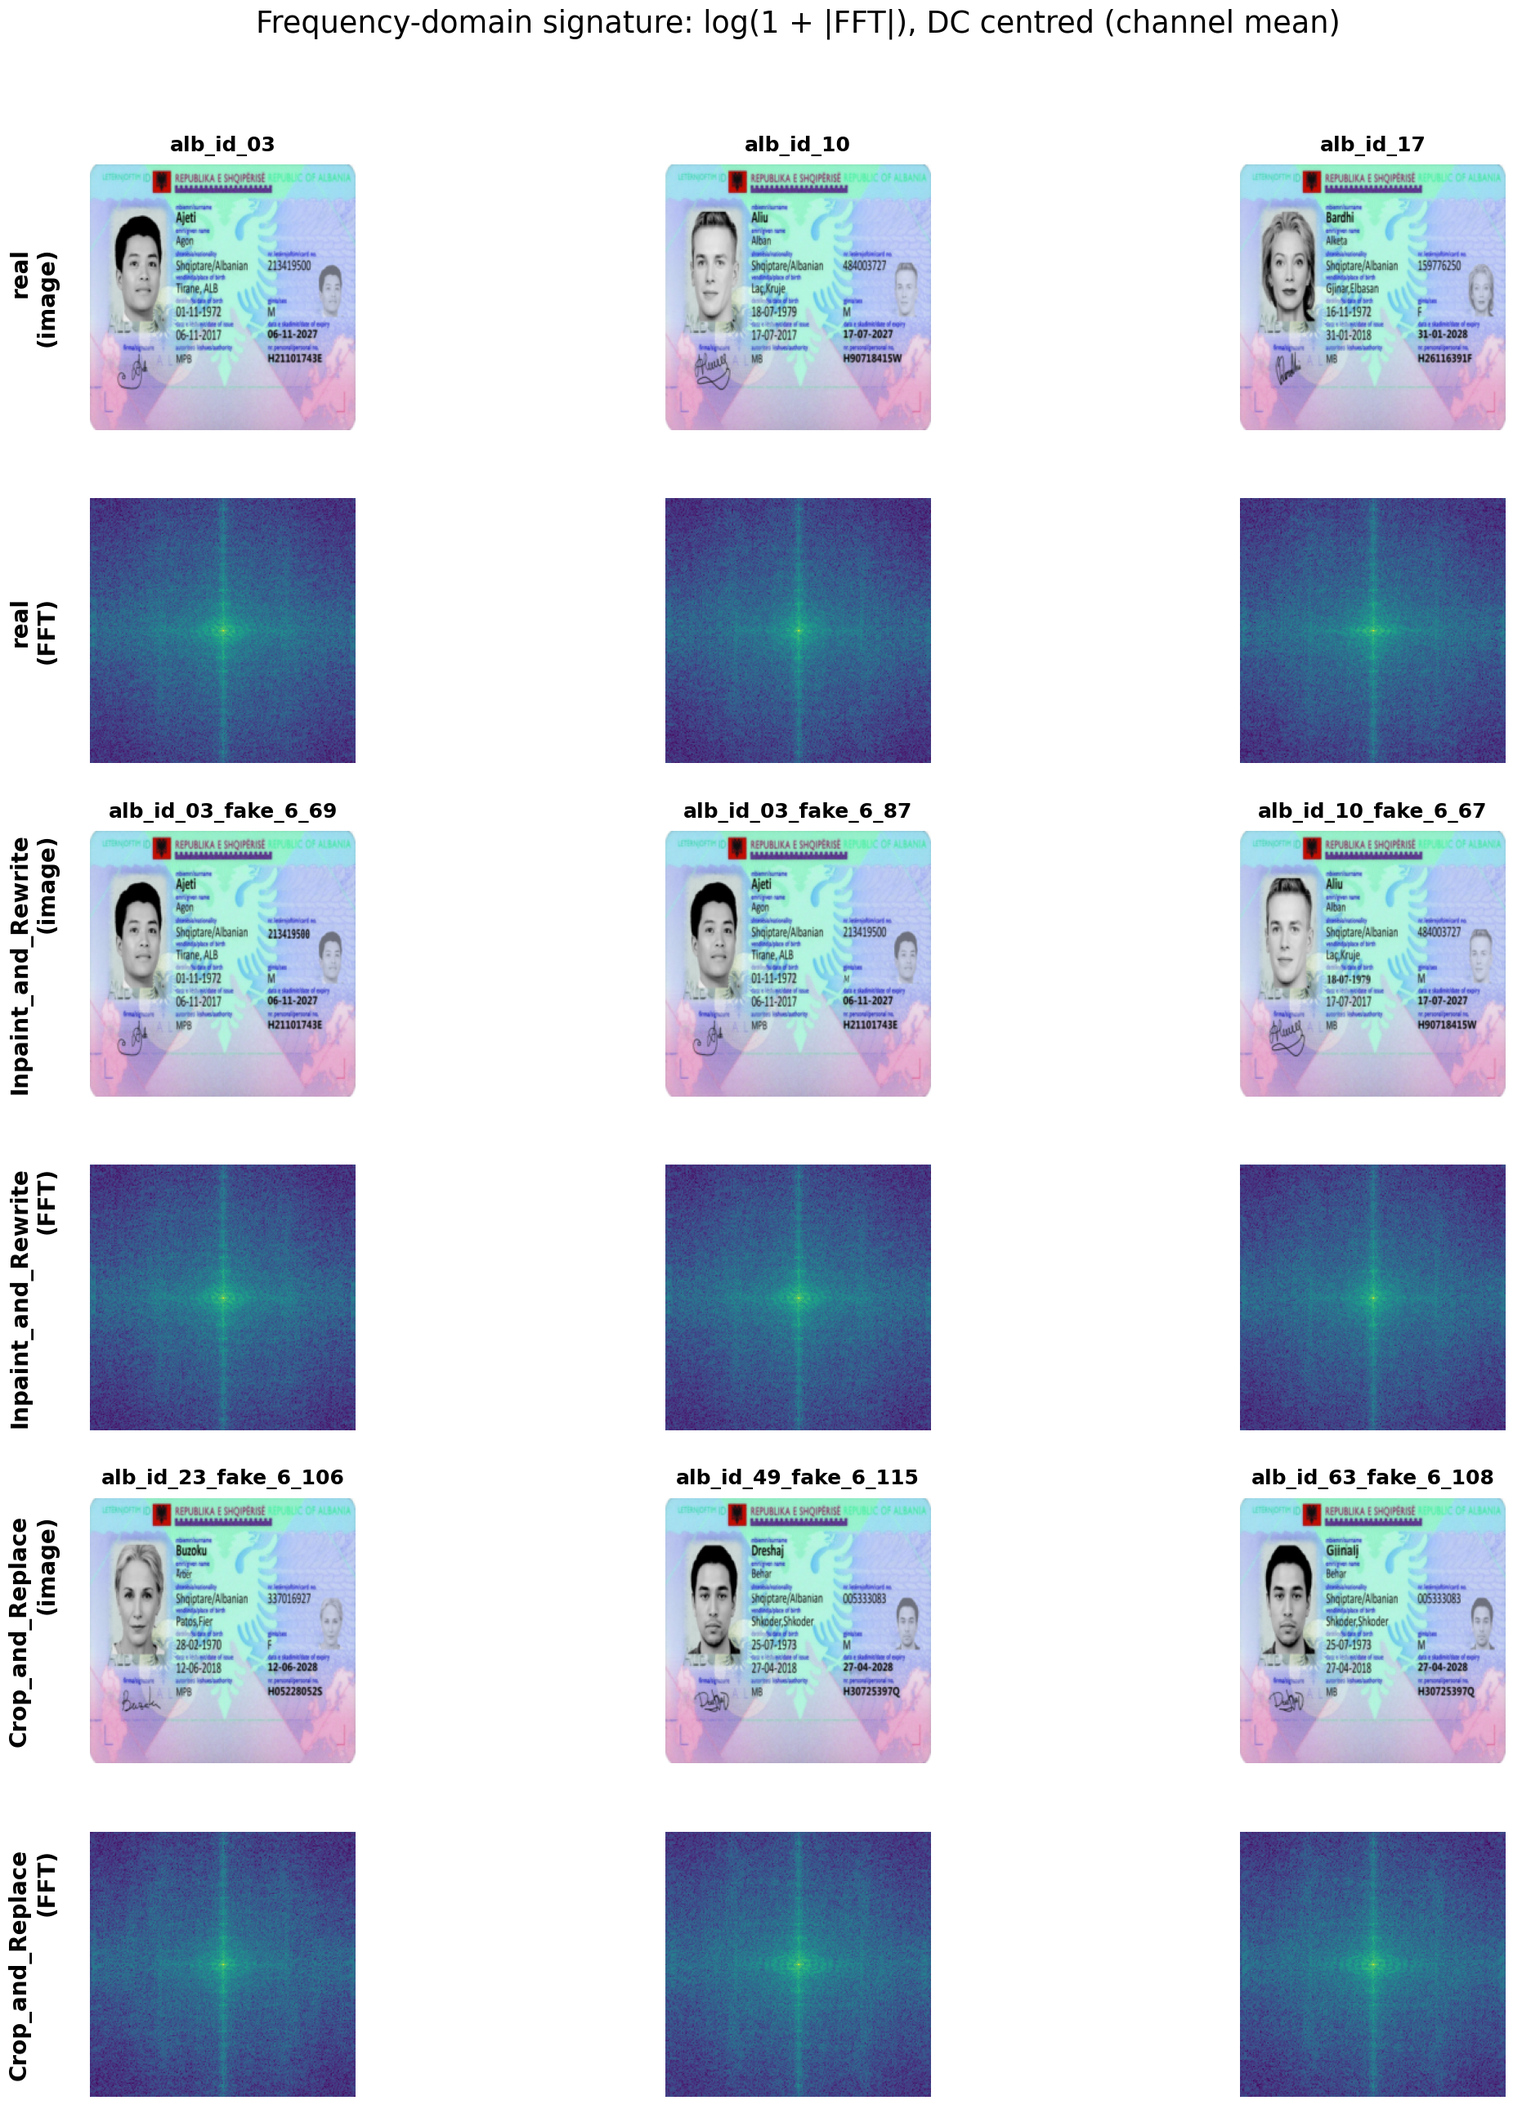
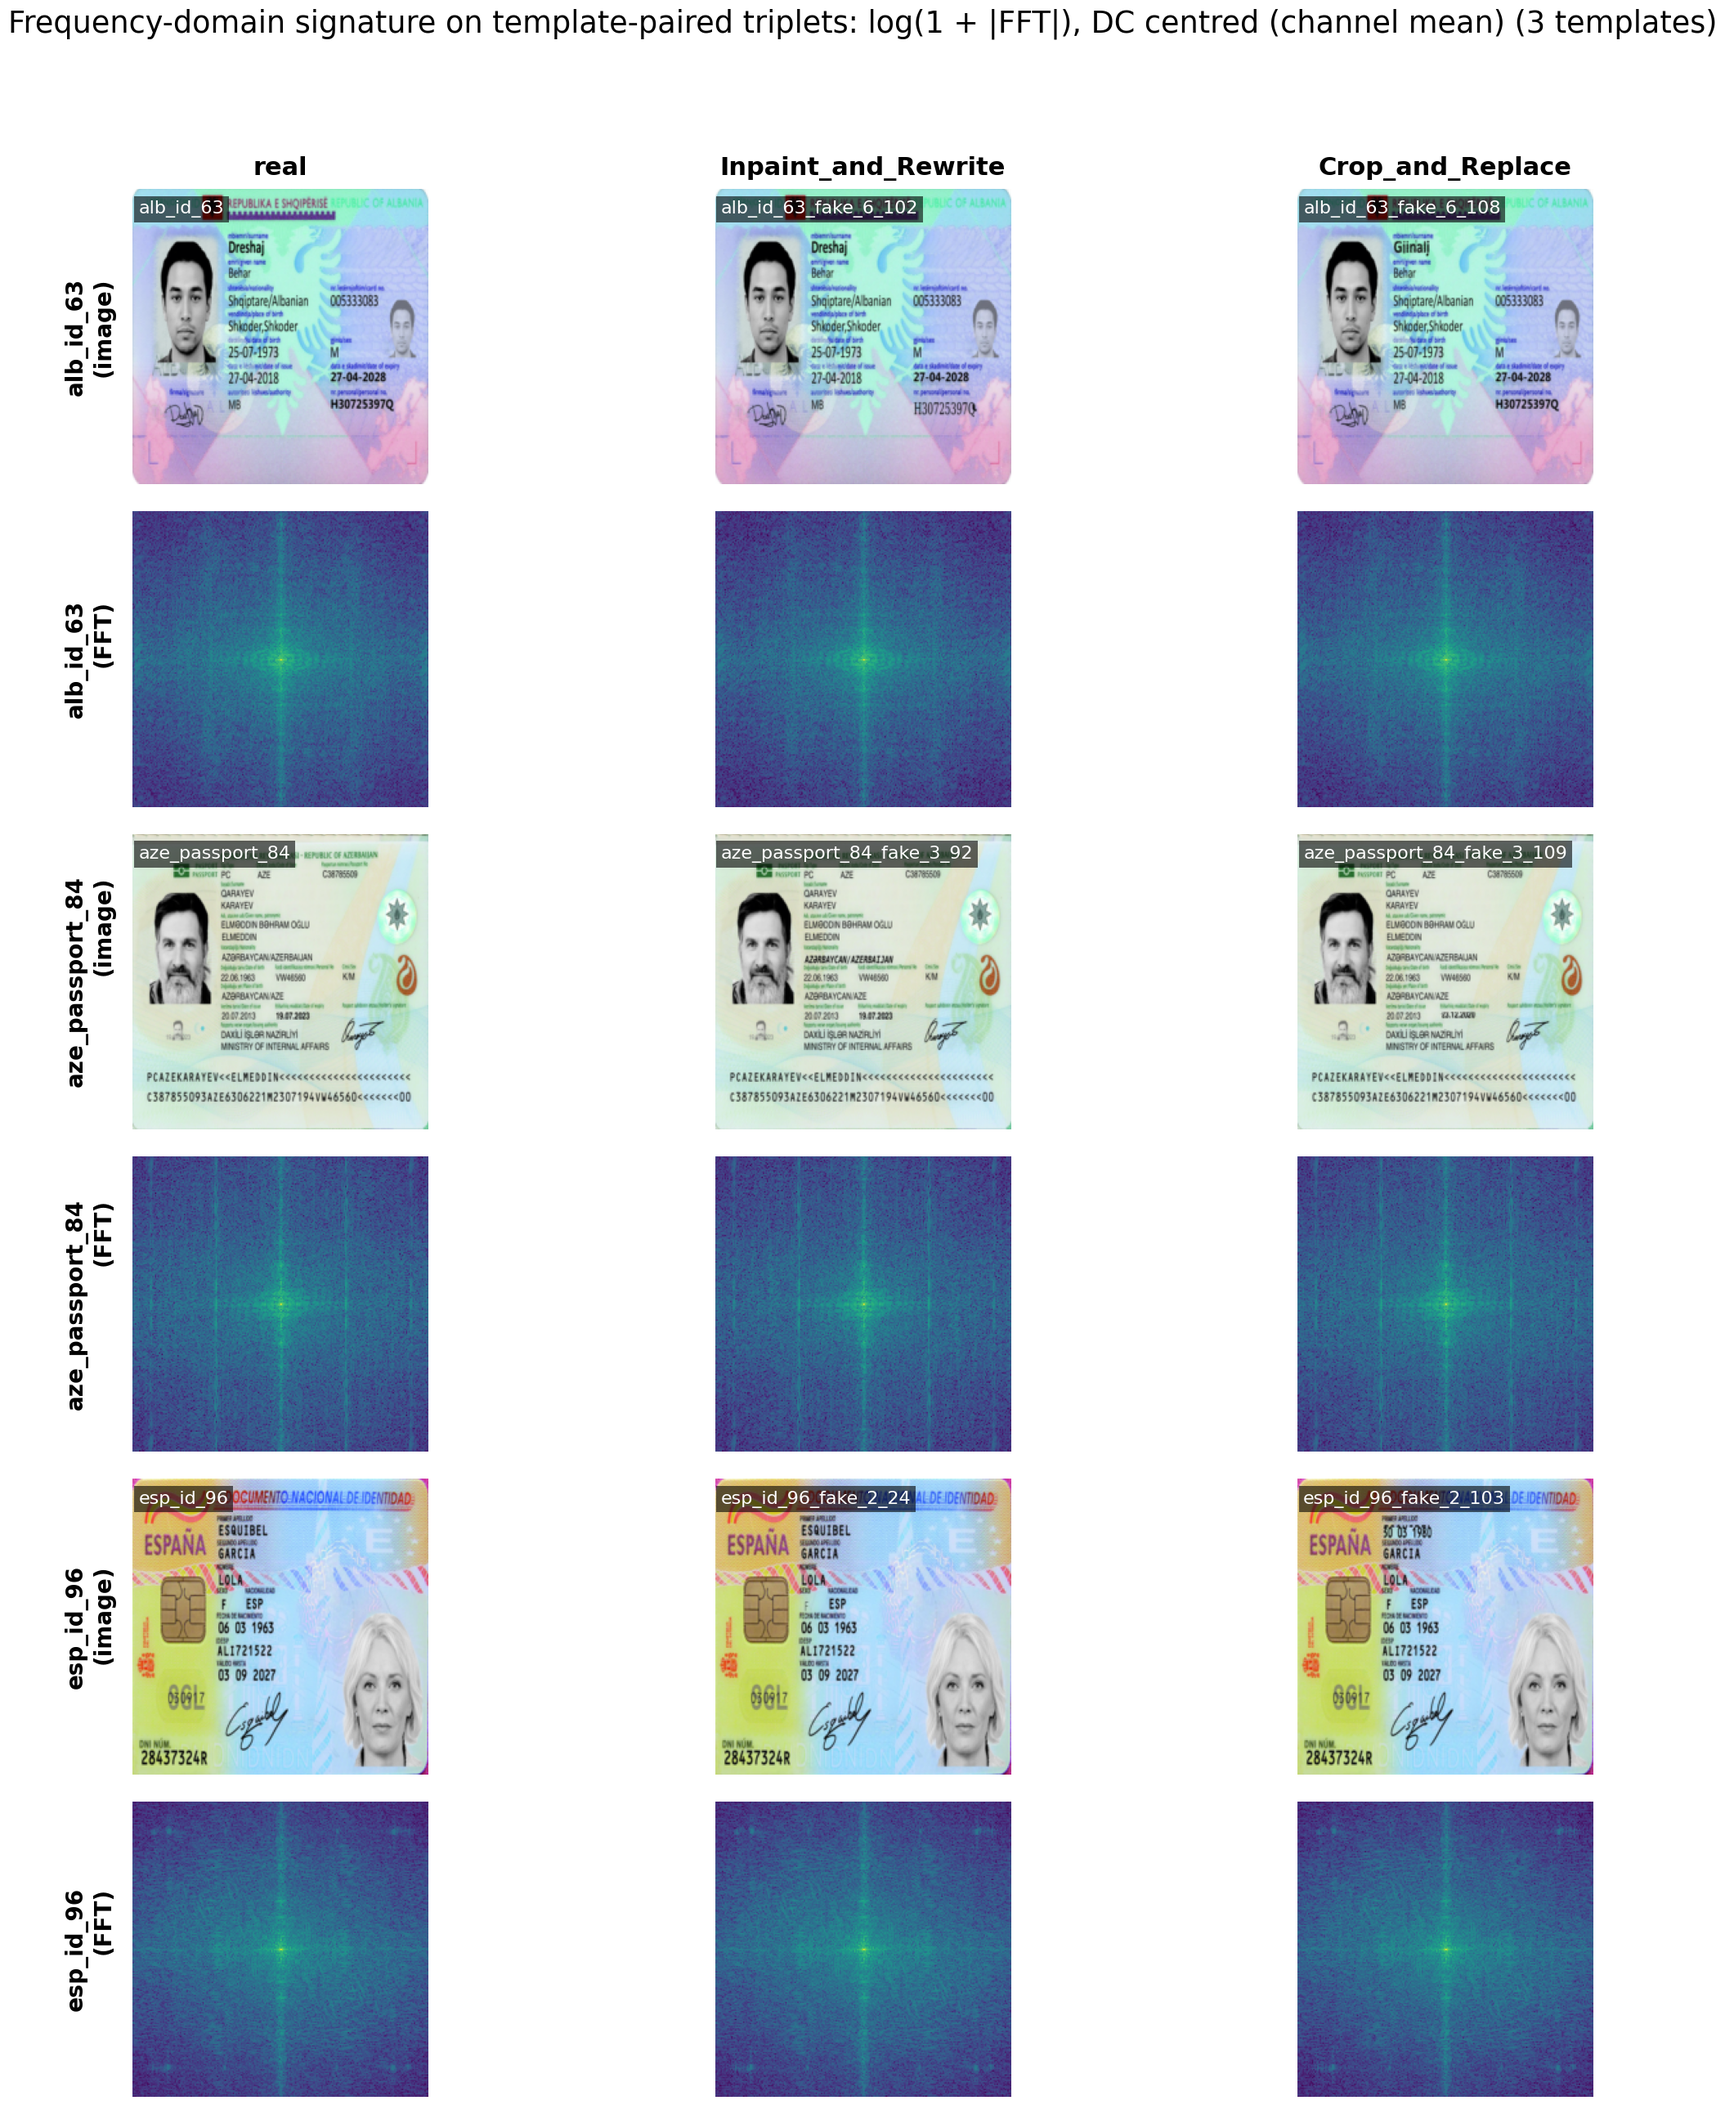
Stage-10 audit fixes: template-paired FFT, McNemar 2x2 box on Grad-CAM A/B, dual best-epoch markers

diff --git a/research/10_missing_figures.py b/research/10_missing_figures.py
@@ -484,10 +484,12 @@ def figure_training_curves():
     # (b) val ROC-AUC (zoomed to show convergence shape)
     ax = axes[1]
     _plot_pair(ax, "val_roc_auc", smooth_w=3)
-    ax.axvspan(best_ts, n_epochs + 0.5, color="0.85", alpha=0.35,
+    ax.axvspan(min(best_ts, best_rn), n_epochs + 0.5, color="0.85", alpha=0.30,
                zorder=1, label="converged region")
-    ax.axvline(best_ts, linestyle="--", color="black", linewidth=1.2,
-               label=f"best epoch = {best_ts}", zorder=4)
+    ax.axvline(best_rn, linestyle=":",  color=COLOR_RESNET,    linewidth=1.6,
+               label=f"ResNet50 best = {best_rn}", zorder=4)
+    ax.axvline(best_ts, linestyle="--", color=COLOR_TWOSTREAM, linewidth=1.6,
+               label=f"Two-Stream best = {best_ts}", zorder=4)
     ax.set_xlabel("Epoch"); ax.set_ylabel("Validation ROC-AUC")
     ax.set_title("(b) Validation ROC-AUC")
     ax.legend(loc="lower right")
@@ -497,8 +499,10 @@ def figure_training_curves():
     # (c) val recall
     ax = axes[2]
     _plot_pair(ax, "val_recall", smooth_w=3)
-    ax.axvspan(best_ts, n_epochs + 0.5, color="0.85", alpha=0.35, zorder=1)
-    ax.axvline(best_ts, linestyle="--", color="black", linewidth=1.2, zorder=4)
+    ax.axvspan(min(best_ts, best_rn), n_epochs + 0.5, color="0.85",
+               alpha=0.30, zorder=1)
+    ax.axvline(best_rn, linestyle=":",  color=COLOR_RESNET,    linewidth=1.6, zorder=4)
+    ax.axvline(best_ts, linestyle="--", color=COLOR_TWOSTREAM, linewidth=1.6, zorder=4)
     ax.set_xlabel("Epoch"); ax.set_ylabel("Validation recall on fakes")
     ax.set_title("(c) Validation recall on fakes")
     ax.legend(loc="lower right")
@@ -584,62 +588,89 @@ def _load_image_tensor(path: Path, image_size: int, device: torch.device) -> tor
 
 
 def figure_fft_spectrum(records: list[dict], test_idx: list[int],
-                        device: torch.device, image_size: int):
-    # Pick 3 reals, 3 inpaint, 3 crop_and_replace
-    grouped: dict[str, list[int]] = {"real": [], "Inpaint_and_Rewrite": [], "Crop_and_Replace": []}
-    for i in test_idx:
-        ct = records[i].get("ctype") or "real"
-        if ct in grouped and len(grouped[ct]) < 3:
-            grouped[ct].append(i)
+                        device: torch.device, image_size: int,
+                        n_templates: int = 3):
+    """Template-paired FFT spectra: same template shown across {real,
+    inpaint, crop_and_replace} so spectral differences are attributable
+    to the manipulation, not to inter-template variation."""
 
-    cols = max(len(v) for v in grouped.values())
-    fig, axes = plt.subplots(6, cols, figsize=(DBL_W, DBL_W * 1.10))
+    def _template_of(p) -> str:
+        s = p.stem
+        return s.split("_fake_")[0] if "_fake_" in s else s
+
+    # Group test indices by template id, then keep only templates that
+    # have at least one sample of each ctype in the test split.
+    by_tpl: dict[str, dict[str, int]] = {}
+    for i in test_idx:
+        rec = records[i]
+        ct  = rec.get("ctype") or "real"
+        tpl = _template_of(rec["path"])
+        slot = by_tpl.setdefault(tpl, {})
+        slot.setdefault(ct, i)  # first-seen wins, deterministic
+
+    needed = {"real", "Inpaint_and_Rewrite", "Crop_and_Replace"}
+    triplets = [(tpl, slot) for tpl, slot in by_tpl.items()
+                if needed.issubset(slot.keys())]
+    if not triplets:
+        logger.warning("No template has all three ctypes in test set; "
+                       "falling back to per-ctype unrelated samples")
+        return
+    triplets = sorted(triplets, key=lambda x: x[0])[:n_templates]
+
+    col_order = ["real", "Inpaint_and_Rewrite", "Crop_and_Replace"]
+    cols = len(col_order)
+    rows = 2 * len(triplets)  # image row + FFT row per template
+
+    fig, axes = plt.subplots(rows, cols, figsize=(DBL_W, DBL_W * 1.10))
+    if rows == 1:
+        axes = axes.reshape(1, -1)
     fig.suptitle(
-        "Frequency-domain signature: log(1 + |FFT|), DC centred (channel mean)"
+        f"Frequency-domain signature on template-paired triplets: "
+        f"log(1 + |FFT|), DC centred (channel mean) ({len(triplets)} templates)"
     )
 
-    for row_group, (ct, idxs) in enumerate(grouped.items()):
-        for col, gi in enumerate(idxs):
+    for c, ct in enumerate(col_order):
+        axes[0, c].set_title(ct, fontsize=11, fontweight="bold")
+
+    for r_tpl, (tpl, slot) in enumerate(triplets):
+        r_top = 2 * r_tpl
+        r_bot = 2 * r_tpl + 1
+        for c, ct in enumerate(col_order):
+            gi  = slot[ct]
             rec = records[gi]
-            t = _load_image_tensor(rec["path"], image_size, device)
+            t   = _load_image_tensor(rec["path"], image_size, device)
             with torch.no_grad():
-                spec = _compute_fft_magnitude(t)  # (1, 3, H, W)
+                spec = _compute_fft_magnitude(t)
             spec_np = spec.squeeze(0).mean(dim=0).cpu().numpy()
             rgb = (t.squeeze(0).cpu().numpy() *
                    IMAGENET_STD.reshape(3, 1, 1) + IMAGENET_MEAN.reshape(3, 1, 1))
             rgb = np.clip(rgb.transpose(1, 2, 0), 0, 1)
 
-            r_top = 2 * row_group
-            r_bot = 2 * row_group + 1
-            ax_top = axes[r_top, col] if cols > 1 else axes[r_top]
-            ax_bot = axes[r_bot, col] if cols > 1 else axes[r_bot]
+            ax_top = axes[r_top, c]
+            ax_bot = axes[r_bot, c]
+            ax_top.imshow(rgb); ax_top.axis("off")
+            ax_top.text(0.02, 0.96, rec["path"].stem,
+                        transform=ax_top.transAxes,
+                        ha="left", va="top", fontsize=8, color="white",
+                        bbox=dict(facecolor="black", edgecolor="none",
+                                  alpha=0.6, pad=2.0))
+            ax_bot.imshow(spec_np, cmap="viridis"); ax_bot.axis("off")
 
-            ax_top.imshow(rgb)
-            ax_top.axis("off")
-            if col == 0:
-                ax_top.text(-0.12, 0.5, f"{ct}\n(image)",
+            if c == 0:
+                ax_top.text(-0.06, 0.5, f"{tpl}\n(image)",
                             transform=ax_top.transAxes,
                             ha="right", va="center", fontsize=10,
                             fontweight="bold", rotation=90)
-            ax_top.set_title(rec["path"].stem, fontsize=9)
-
-            ax_bot.imshow(spec_np, cmap="viridis")
-            ax_bot.axis("off")
-            if col == 0:
-                ax_bot.text(-0.12, 0.5, f"{ct}\n(FFT)",
+                ax_bot.text(-0.06, 0.5, f"{tpl}\n(FFT)",
                             transform=ax_bot.transAxes,
                             ha="right", va="center", fontsize=10,
                             fontweight="bold", rotation=90)
 
-        # Hide unused columns in this group
-        for col in range(len(idxs), cols):
-            axes[2*row_group, col].axis("off")
-            axes[2*row_group + 1, col].axis("off")
-
-    fig.tight_layout(rect=[0, 0, 1, 0.96])
+    fig.tight_layout(rect=[0, 0, 1, 0.95])
     fig.savefig(OUT / "10_fft_spectrum.png")
     plt.close(fig)
-    logger.info("Saved: 10_fft_spectrum.png")
+    logger.info("Saved: 10_fft_spectrum.png (template-paired, %d templates)",
+                len(triplets))
 
 
 # ===========================================================================
@@ -777,6 +808,16 @@ def figure_gradcam_resnet_vs_two_stream(
 ):
     """Pick test fakes that ResNet50 wrongly calls real but Two-Stream
     correctly catches. Render Grad-CAM from each model side-by-side."""
+    # McNemar 2x2 cell counts on the fakes only
+    fake_mask = (y_true == 1)
+    a_cell = int(((pred_a == 1) & (pred_b == 1) & fake_mask).sum())  # both right
+    b_cell = int(((pred_a == 0) & (pred_b == 1) & fake_mask).sum())  # ResNet wrong, TS right
+    c_cell = int(((pred_a == 1) & (pred_b == 0) & fake_mask).sum())  # ResNet right, TS wrong
+    d_cell = int(((pred_a == 0) & (pred_b == 0) & fake_mask).sum())  # both wrong
+    logger.info("McNemar on fakes: a=%d (both right), b=%d (RN wrong, TS right), "
+                "c=%d (RN right, TS wrong), d=%d (both wrong)",
+                a_cell, b_cell, c_cell, d_cell)
+
     target_subs = []
     for sub in range(len(y_true)):
         if y_true[sub] == 1 and pred_a[sub] == 0 and pred_b[sub] == 1:
@@ -786,7 +827,8 @@ def figure_gradcam_resnet_vs_two_stream(
         fig, ax = plt.subplots(figsize=(8, 3))
         ax.text(0.5, 0.5,
                 "No cases where ResNet50 missed but Two-Stream caught.\n"
-                "(McNemar b-cell empty: skip side-by-side Grad-CAM.)",
+                "(McNemar b-cell empty: skip side-by-side Grad-CAM.)\n"
+                f"a={a_cell}, b={b_cell}, c={c_cell}, d={d_cell}",
                 ha="center", va="center", fontsize=12, fontweight="bold")
         ax.axis("off")
         fig.tight_layout()
@@ -849,7 +891,20 @@ def figure_gradcam_resnet_vs_two_stream(
     fig.suptitle(
         "Cases where the FFT branch makes the difference (ResNet50 missed; Two-Stream caught)"
     )
-    fig.tight_layout(rect=[0, 0, 1, 0.96])
+    # McNemar 2x2 summary box, anchored to bottom-left of the figure
+    summary_txt = (
+        f"McNemar 2x2 on fakes (n = {a_cell + b_cell + c_cell + d_cell})\n"
+        f"  a (both right)         = {a_cell}\n"
+        f"  b (RN wrong, TS right) = {b_cell}  <-- shown above\n"
+        f"  c (RN right, TS wrong) = {c_cell}\n"
+        f"  d (both wrong)         = {d_cell}\n"
+        f"figure shows top {len(target_subs)} of b by lowest p_RN(fake)"
+    )
+    fig.text(0.012, 0.012, summary_txt, fontsize=8, family="monospace",
+             ha="left", va="bottom",
+             bbox=dict(facecolor="white", edgecolor="0.6",
+                       boxstyle="round,pad=0.4", alpha=0.95))
+    fig.tight_layout(rect=[0, 0.06, 1, 0.96])
     fig.savefig(OUT / "10_gradcam_resnet_vs_two_stream.png")
     plt.close(fig)
     cam_rn.remove(); cam_ts.remove()
